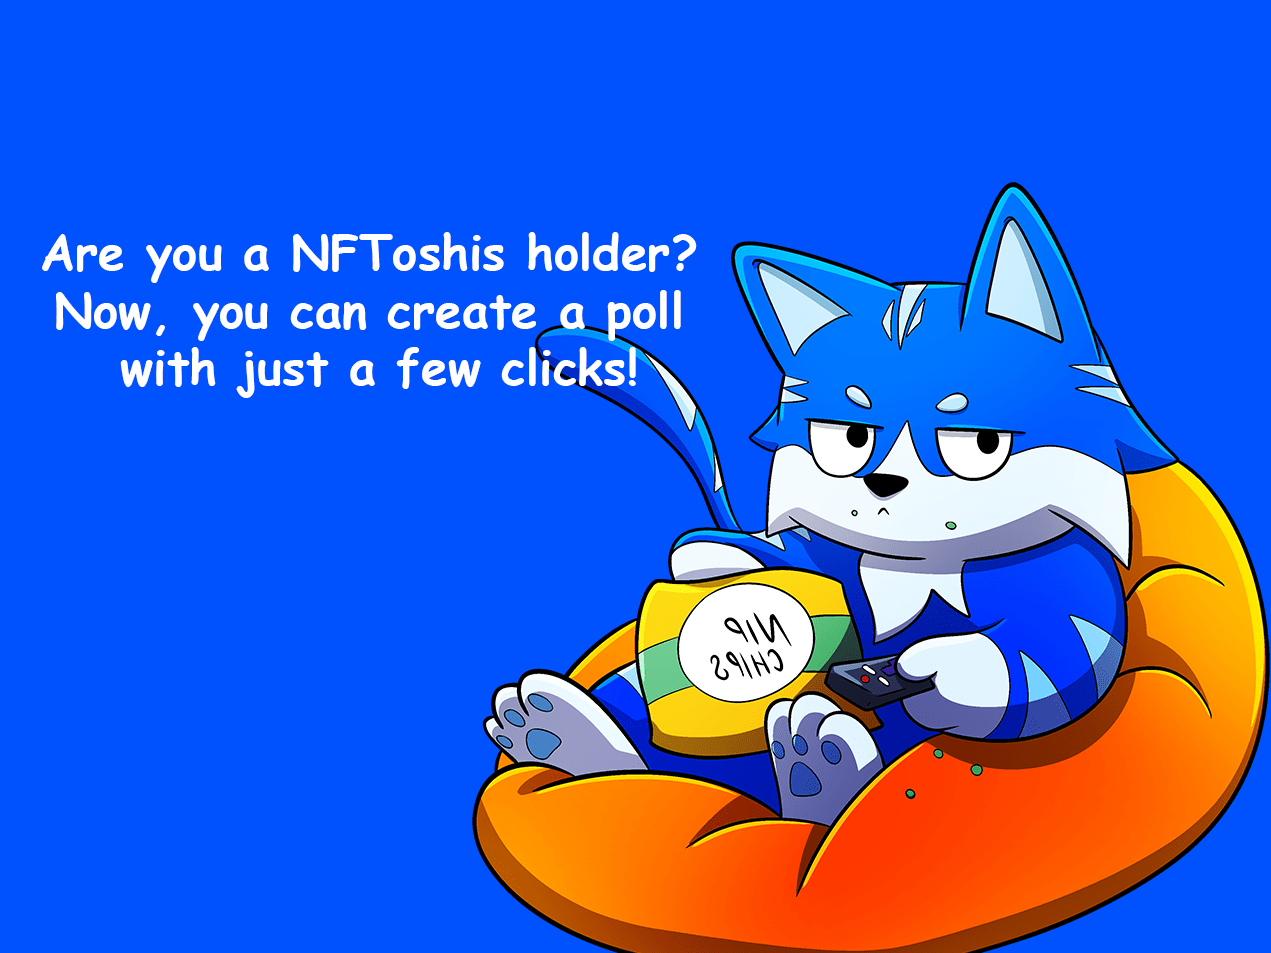
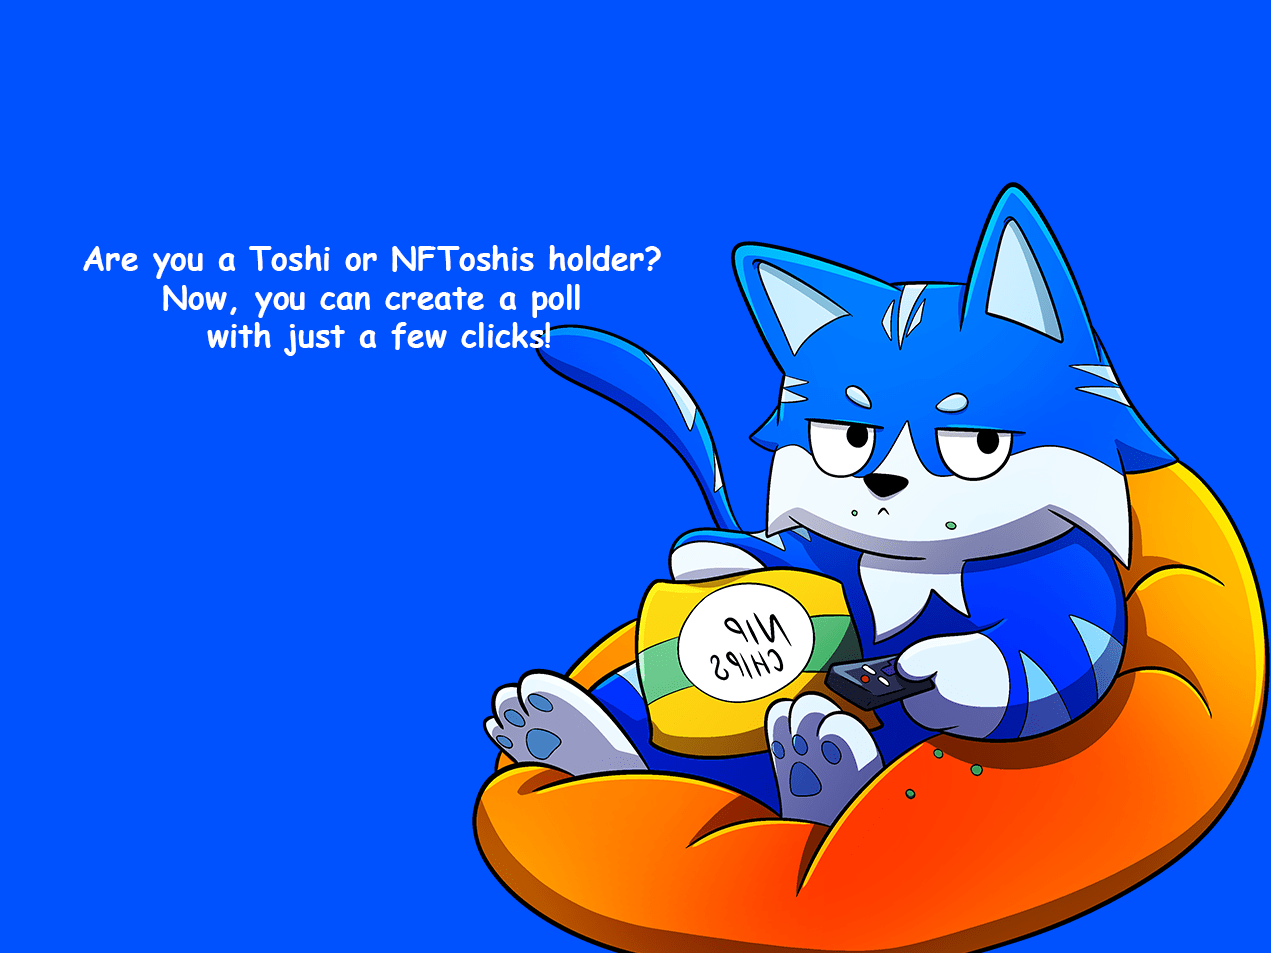
add a toshi holder

Changed region(s): [[0.0307, 0.2434, 0.5523, 0.426], [0.8592, 0.6695, 0.8899, 0.6999]]

diff --git a/public/home.html b/public/home.html
@@ -82,6 +82,10 @@
         text-align: center;
       }
 
+      .club-content a{
+        margin:4px;
+      }
+
       .club-title {
         font-size: 20px;
         margin-bottom: 10px;
@@ -316,6 +320,27 @@
             </p>
             <a
               href="https://www.npmjs.com/package/nftoshis-gating?activeTab=readme"
+              class="button"
+              target="_blank"
+              >Download</a
+            >
+          </div>
+        </div>
+
+
+        <div class="club">
+          <div class="club-content">
+            <h2 class="club-title">Toshi Gating</h2>
+            <p class="club-description">
+              Designed to provide gating functionality for projects utilizing
+              <a
+                href="https://toshithecat.com"
+                target="_blank"
+                >Toshi</a
+              >
+            </p>
+            <a
+              href="https://www.npmjs.com/package/toshi-gating?activeTab=readme"
               class="button"
               target="_blank"
               >Download</a

diff --git a/src/routes/admin.tsx b/src/routes/admin.tsx
@@ -1,4 +1,4 @@
-import { getFrogApp, nftoshis } from '../utils/app'
+import { getFrogApp, nftoshis, toshi } from '../utils/app'
 
 import PollController from '../controllers/home'
 import PollResult from '../controllers/poll-result'
@@ -98,6 +98,11 @@ app.frame('/:id?', async (c) => {
 })
 
 async function isHolder(c:FrameContext,fid:number){
+  const isToshiHolder = await toshi.isHolder(isLive() ? fid : parseInt(process.env.FC_FID!));
+  if(isToshiHolder){
+    return true;
+  }
+  
   if (!await nftoshis.isHolder(isLive() ? fid : parseInt(process.env.FC_FID!))) {
     return ErrorController(c, {
       content: `Apologies, but it appears you don't currently possess any NFTOSHIS. 

diff --git a/src/controllers/index.tsx b/src/controllers/index.tsx
@@ -4,7 +4,7 @@ import { type TypedResponse } from "../../node_modules/frog/types/response.js";
 export default (c: FrameContext, a?: string): TypedResponse<FrameResponse> => c.res({
     browserLocation: '/',
     action: a ? a : undefined,
-    image: `${process.env.FC_DOMAIN}/images/main.png?ver=5`,
+    image: `${process.env.FC_DOMAIN}/images/main.png?ver=6`,
     intents: [
         <Button value="login">{`Les Goh`}</Button>,
         <Button.Link href="https://github.com/onchainyaotoshi/frame-poll">{`Docs`}</Button.Link>,

diff --git a/src/utils/app.ts b/src/utils/app.ts
@@ -3,6 +3,7 @@ import { neynar } from 'frog/hubs'
 // import { isLive } from './dev-tools';
 import _ from 'lodash';
 import Nftoshis from 'nftoshis-gating';
+import Toshi from 'toshi-gating';
 
 const frogAppArgs: FrogConstructorParameters = {
     imageOptions: {
@@ -18,3 +19,4 @@ frogAppArgs.verify = false;
 export const getFrogApp = (opts: FrogConstructorParameters<{State:PollType}> = {}) => new Frog(_.merge(frogAppArgs,opts));
 
 export const nftoshis = new Nftoshis();
+export const toshi = new Toshi();
